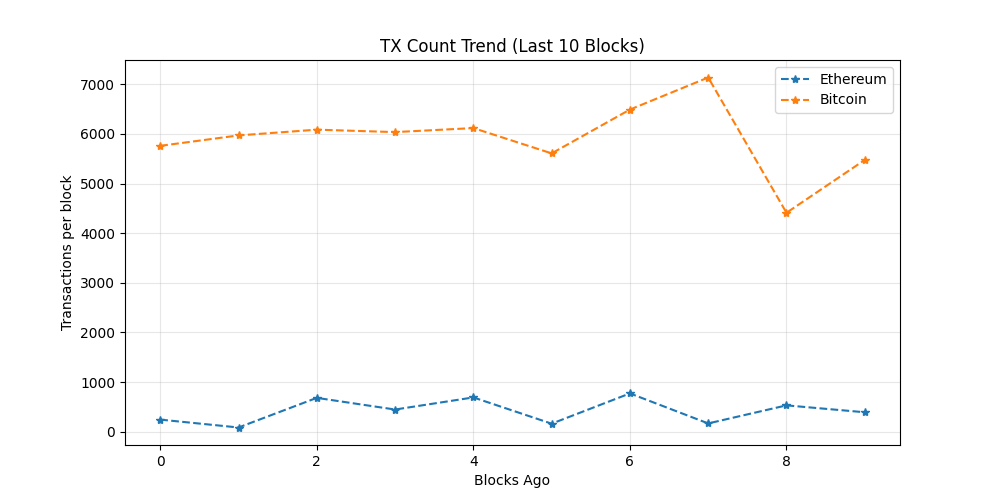
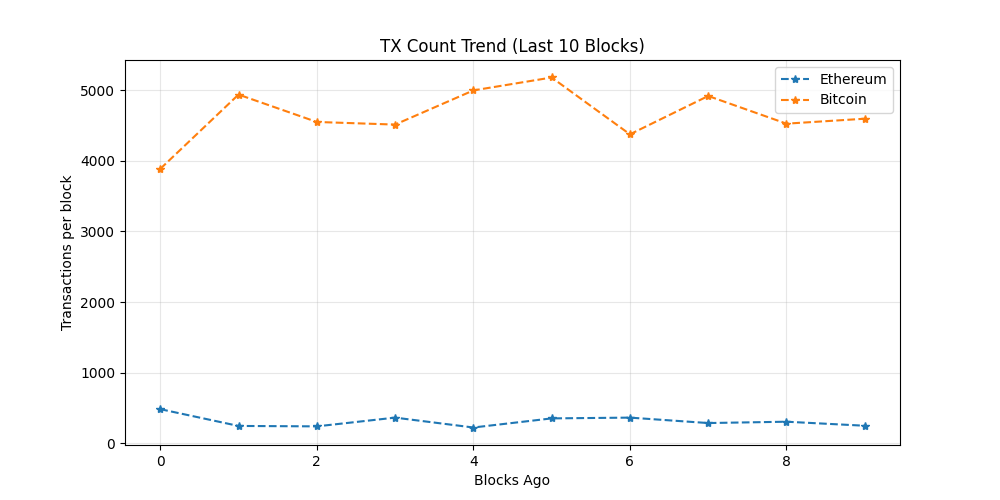
chore: update on-chain dashboard

diff --git a/README.md b/README.md
@@ -19,7 +19,7 @@ The README itself acts as the dashboard and is regenerated automatically on a 6 
 demonstrating a production-style, infrastructure-focused observability workflow rather
 than a traditional UI-driven approach.
 
-_Last updated: 2026-06-09 10:01 UTC_
+_Last updated: 2026-06-09 15:26 UTC_
 
 ## API Usage (GetBlock.io)
 - Calls used: **24**
@@ -27,8 +27,8 @@ _Last updated: 2026-06-09 10:01 UTC_
 ## Network Metrics
 | Chain | Block Height | TX Count | TPS (10 blk avg) | Block Util | Avg Fee |
 |------|-------------|----------|------------------|------------|---------|
-| Ethereum | 25279135 | 391 | 32.58 | 98.23% | 0.2 Gwei |
-| Bitcoin | 952958 | 5475 | 8.02 | 99.8% | N/A |
+| Ethereum | 25280753 | 247 | 20.58 | 35.19% | 0.5 Gwei |
+| Bitcoin | 952985 | 4597 | 4.23 | 99.79% | N/A |
 
 ## Visuals
 ### Transactions Trend
@@ -43,11 +43,11 @@ _Last updated: 2026-06-09 10:01 UTC_
 ## Whale Alerts (latest block)
 - Transaction hashes are truncated for readability.
 - Full hashes are available in `dashboards/metrics.json`
-- Bitcoin | 101.38 BTC | `c1193f6ec216…`
-- Bitcoin | 101.38 BTC | `105bd0c7f6e3…`
-- Bitcoin | 101.38 BTC | `2e77f5ab9b7a…`
-- Bitcoin | 169.19 BTC | `481cce304b49…`
-- Bitcoin | 368.77 BTC | `20d908fae32d…`
+- Bitcoin | 205.91 BTC | `d0e88058941f…`
+- Bitcoin | 1431.09 BTC | `f9d299c41852…`
+- Bitcoin | 125.37 BTC | `473bdd92e5f1…`
+- Bitcoin | 105.08 BTC | `f004e46057dc…`
+- Bitcoin | 180.0 BTC | `8514b3a4ff89…`
 
 ## Run locally
 
